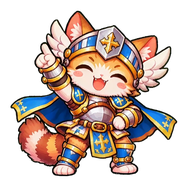
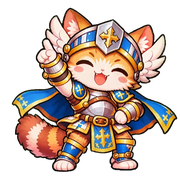
Happy dance emoji: drop the glitchy last video frames
Video frames 69-73 turn the body and shift the legs while the paw is
up, which looked like a glitch at the end of each loop. The move now
runs 50-68 and back: 19 frames, 1 s x 4.

Claude-Session: https://claude.ai/code/session_01CqN5TM8CtnKZx6KMXb1z93

diff --git a/line-stickers/animated-emoji/40-happy-dance/make_happy_dance.py b/line-stickers/animated-emoji/40-happy-dance/make_happy_dance.py
@@ -1,5 +1,5 @@
 """Happy dance emoji: the disco move from the end of the Kling clip (paw pointing down across
-the body -> up to the sky, video frames 50-73), played forward and back so it loops with no
+the body -> up to the sky, video frames 50-68), played forward and back so it loops with no
 jump. The middle of the clip, where he just stands, is not used."""
 import sys, os
 from PIL import Image
@@ -7,8 +7,9 @@ SRC, OUT = sys.argv[1], sys.argv[2]            # folder of green-removed video f
 W, LOOP_MS = 540, 1000                          # working canvas (3x of 180), one loop
 # Start with the paw pointing up (the still LINE shows), bring it down, then back up.
 # 20 frames is LINE's maximum.
-DOWN = [73, 70, 68, 66, 64, 62, 60, 58, 56, 53]
-UP = [50, 52, 55, 57, 59, 61, 63, 65, 67, 71]
+# Frames 69-73 are left out: his body turns and his legs shift there, which looked like a glitch.
+DOWN = [68, 66, 64, 62, 60, 58, 56, 54, 52]
+UP = [50, 51, 53, 55, 57, 59, 61, 63, 65, 67]
 SEQ = DOWN + UP
 durs = [LOOP_MS // len(SEQ)] * len(SEQ)
 src = {i: Image.open(f"{SRC}/{i:03d}.png") for i in set(SEQ)}
